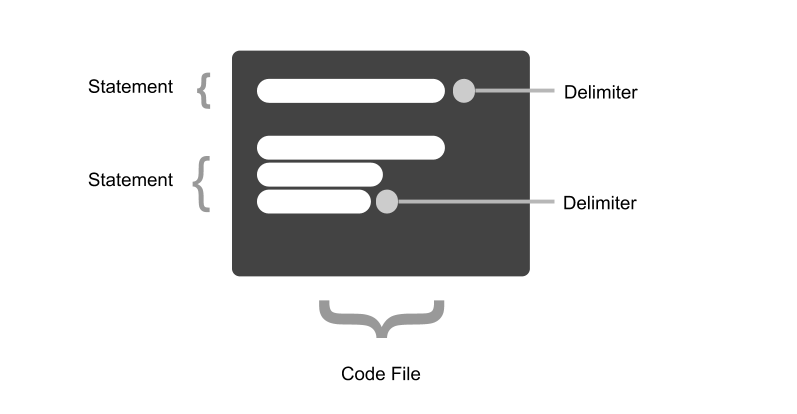
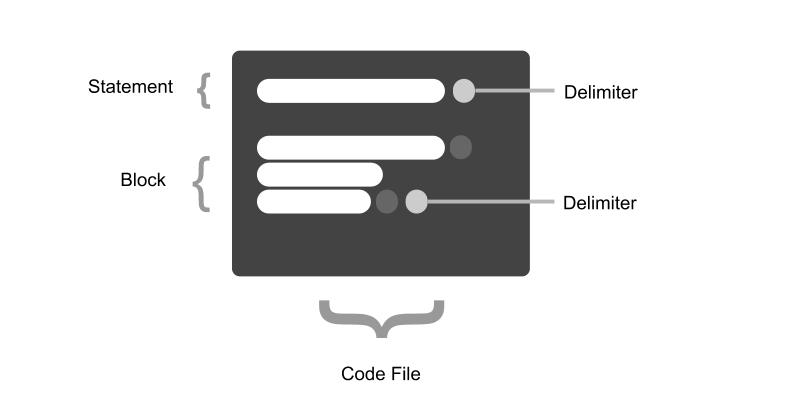
added "blocks" to language guide

Changed region(s): [[0.0903, 0.4058, 0.2108, 0.4638], [0.4517, 0.4638, 0.542, 0.5217], [0.542, 0.3188, 0.6023, 0.3768]]

diff --git a/cover.html b/cover.html
@@ -42,15 +42,17 @@
         <div style="background: #b583cc7a;">
             <p><i class="fas fa-question"></i><br><br><b>WHY</b>
                 <br><br>
-                Abstract code makes things simple, understandable and accessible, while still providing a wide range of capabilities. Code can do more compared to drag-n-drop tools. <br><br> <a href="#/README?id=why-abstract-code">Read more</a>
+                Abstract code aims to make development simple, understandable and accessible, while still providing a wide range of capabilities. Code can do more compared to drag-n-drop tools. <br><br> <a href="#/README?id=why-abstract-code">Read more</a>
             </p>
         </div>
         <div style="background: #dc90cba5;">
-            <p><i class="fas fa-arrows-alt-h"></i><br><br><b>COMPARE</b>
+            <p><i class="fas fa-arrows-alt-h"></i><br><br><b>UNDERSTAND the Difference</b>
                 <br><br>
                 Abstract Code vs...
                 <br>
                 <br>
+                <a href="#/BASICS?id=real-code">Code</a>
+                <br><br>
                 <a href="#/BASICS?id=low-code">Low Code</a>
                 <br><br>
                 <a href="#/BASICS?id=no-code">No Code</a>

diff --git a/LANGUAGE-GUIDE.md b/LANGUAGE-GUIDE.md
@@ -88,6 +88,8 @@ print "hello World" ;
 
 ```
 
+## Blocks
+
 ## Runtime
 
 Code needs to be executed somewhere and somehow.
